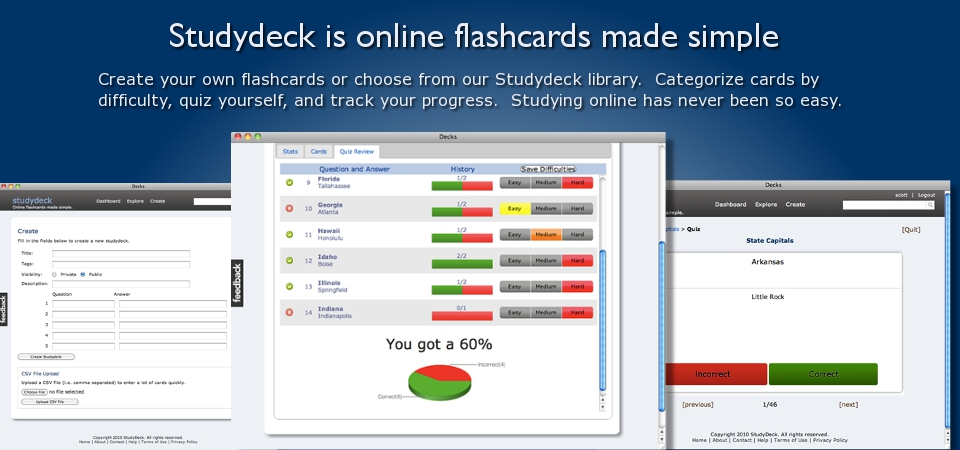
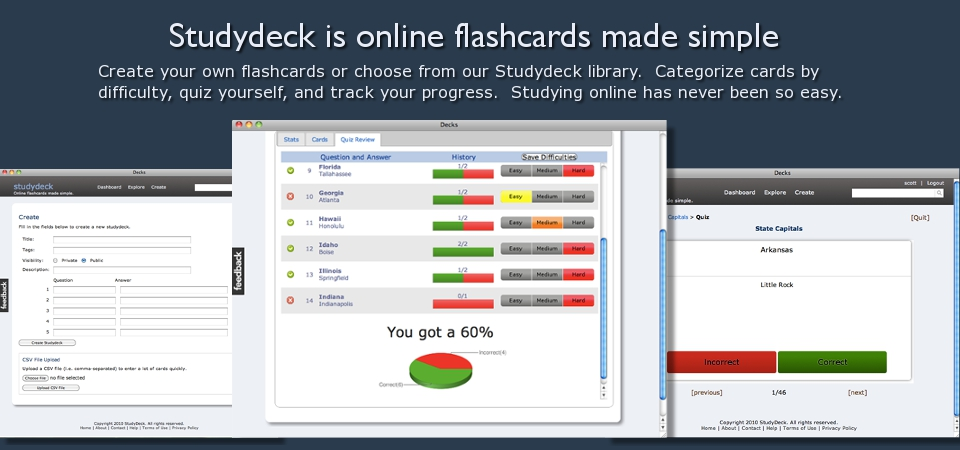
Redesigned homepage.

diff --git a/app/webroot/css/styles.css b/app/webroot/css/styles.css
@@ -7,7 +7,7 @@ body {
 /*****  top-level divs *****/
 
 div#content {
-    background: transparent url("/img/body_bg.png") repeat-x;
+    background: transparent url("/img/body_bg.jpg") repeat-x;
 }
 
 div#header {
@@ -177,9 +177,12 @@ div#nav_right {
 /*****  middle_bar homepage *****/
 
 div#blurb {
+    /*
     background-color: #003366;
     border-top: 2px solid #fff;
     border-bottom: 2px solid #fff;
+    */
+    background: url("/img/blurb_bg.png") repeat-y center top;
 }
 
 div#blurb_content {
@@ -193,7 +196,13 @@ div#more {
     height: 100px;
     width: 100%;
     margin: 0 auto;
-    background-color: #cecece;
+    background: url("/img/more_bg.png") repeat-y center top;
+}
+
+div#more_bottom {
+    height: 45px;
+    margin: 0 auto;
+    background: url("/img/more_bg_bottom.png") no-repeat center;
 }
 
 div#panels {
@@ -201,12 +210,35 @@ div#panels {
     margin: 0 auto;
 }
 
-#signup, #explore, #iphone {
+#panels h3 a:link, #panels h3 a:visited {
+    color: #000;
+    text-decoration: none;
+}
+#panels h3 a:hover {
+    text-decoration: underline;
+}
+
+#panels h3 {
+    font-family: helvetica, verdana, sans-serif;
     font-size: 2em;
+    margin: 0 0 5px 0;
+}
+
+#signup, #explore {
     width: 300px;
     float: left;
-    text-align: center;
     margin: 20px 10px 0 0;
+    padding: 0 0 0 10px;
+}
+
+#iphone {
+    width: 300px;
+    float: left;
+    margin: 20px 10px 0 0;
+}
+#iphone img {
+    float: right;
+    margin: 0 10px 0 0;
 }
 
 /***** generic headings *****/
